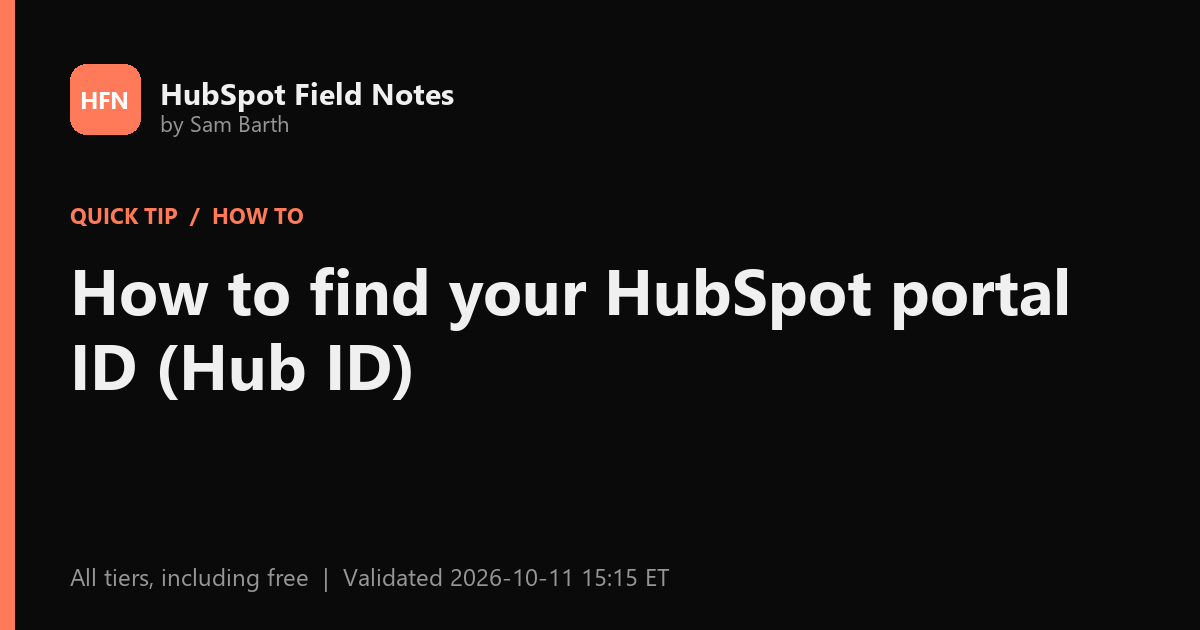
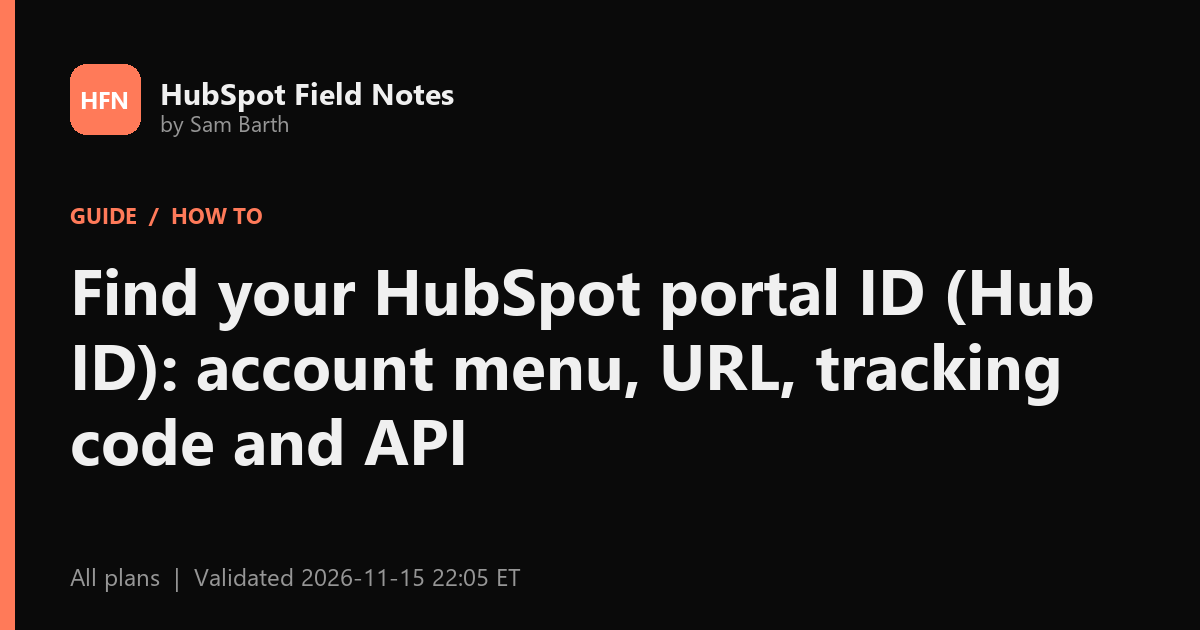
Topic guide: find your HubSpot portal ID (adds tracking code and tested API)

diff --git a/articles/find-hubspot-portal-id/index.html b/articles/find-hubspot-portal-id/index.html
@@ -13,16 +13,16 @@
 <script>try{var t=localStorage.getItem('hfn-theme');if(t)document.documentElement.setAttribute('data-theme',t)}catch(e){}</script>
 <script id="hs-script-loader" async defer src="https://js.hs-scripts.com/20693956.js"></script>
 <!--/head-->
-<title>How to find your HubSpot portal ID (Hub ID) - HubSpot Field Notes</title>
-<meta name="description" content="Your HubSpot portal ID, also called Hub ID or account ID, is in the account menu and in every HubSpot URL. Where to find it and what it is for.">
+<title>Find your HubSpot portal ID (Hub ID): account menu, URL, tracking code and API - HubSpot Field Notes</title>
+<meta name="description" content="Four places to find your HubSpot portal ID, also called the Hub ID or account ID: the account menu, any HubSpot URL, the tracking code script, and the account information API, with what the API returns.">
 <link rel="canonical" href="https://hubspot.samcbarth.com/articles/find-hubspot-portal-id/">
 <meta property="og:type" content="article">
 <meta property="og:url" content="https://hubspot.samcbarth.com/articles/find-hubspot-portal-id/">
-<meta property="og:title" content="How to find your HubSpot portal ID (Hub ID)">
-<meta property="og:description" content="Your HubSpot portal ID, also called Hub ID or account ID, is in the account menu and in every HubSpot URL. Where to find it and what it is for.">
+<meta property="og:title" content="Find your HubSpot portal ID (Hub ID): account menu, URL, tracking code and API">
+<meta property="og:description" content="Four places to find your HubSpot portal ID, also called the Hub ID or account ID: the account menu, any HubSpot URL, the tracking code script, and the account information API, with what the API returns.">
 <meta property="og:image" content="https://hubspot.samcbarth.com/articles/find-hubspot-portal-id/og.png">
 <meta property="article:published_time" content="2026-10-02">
-<meta property="article:modified_time" content="2026-10-02">
+<meta property="article:modified_time" content="2026-11-15">
 <meta name="twitter:card" content="summary_large_image">
 <script type="application/ld+json">
 {
@@ -30,10 +30,10 @@
   "@graph": [
     {
       "@type": "TechArticle",
-      "headline": "How to find your HubSpot portal ID (Hub ID)",
-      "description": "Your HubSpot portal ID, also called Hub ID or account ID, is in the account menu and in every HubSpot URL. Where to find it and what it is for.",
+      "headline": "Find your HubSpot portal ID (Hub ID): account menu, URL, tracking code and API",
+      "description": "Four places to find your HubSpot portal ID, also called the Hub ID or account ID: the account menu, any HubSpot URL, the tracking code script, and the account information API, with what the API returns.",
       "datePublished": "2026-10-02",
-      "dateModified": "2026-10-02",
+      "dateModified": "2026-11-15",
       "author": { "@type": "Person", "name": "Sam Barth", "url": "https://samcbarth.com" },
       "publisher": { "@type": "Person", "name": "Sam Barth" },
       "image": "https://hubspot.samcbarth.com/articles/find-hubspot-portal-id/og.png",
@@ -43,18 +43,21 @@
     },
     {
       "@type": "HowTo",
-      "name": "Find your HubSpot portal ID",
-      "totalTime": "PT1M",
+      "name": "Find your HubSpot portal ID (Hub ID): account menu, URL, tracking code and API",
+      "totalTime": "PT5M",
       "step": [
-        {"@type": "HowToStep", "name": "Open the account menu", "text": "In HubSpot, click your account name or avatar in the top right corner."},
-        {"@type": "HowToStep", "name": "Read the Hub ID", "text": "Under Account, the number below the account name is your portal ID, also called Hub ID."}
+        {"@type": "HowToStep", "name": "Open the account menu", "text": "Click your avatar, top right."},
+        {"@type": "HowToStep", "name": "Read the number under the account name", "text": "That is the portal ID."},
+        {"@type": "HowToStep", "name": "Or check the URL", "text": "It follows the tool name."},
+        {"@type": "HowToStep", "name": "Or check the tracking code", "text": "hs-scripts.com/ID.js."},
+        {"@type": "HowToStep", "name": "Or call the API", "text": "GET account-info details returns portalId."}
       ]
     },
     {
       "@type": "BreadcrumbList",
       "itemListElement": [
         { "@type": "ListItem", "position": 1, "name": "HubSpot Field Notes", "item": "https://hubspot.samcbarth.com/" },
-        { "@type": "ListItem", "position": 2, "name": "How to find your HubSpot portal ID (Hub ID)", "item": "https://hubspot.samcbarth.com/articles/find-hubspot-portal-id/" }
+        { "@type": "ListItem", "position": 2, "name": "Find your HubSpot portal ID (Hub ID): account menu, URL, tracking code and API", "item": "https://hubspot.samcbarth.com/articles/find-hubspot-portal-id/" }
       ]
     }
   ]
@@ -85,14 +88,14 @@
   <div class="wrap">
     <nav class="crumbs" aria-label="Breadcrumb"><a href="../../">All articles</a> / <a href="../../?feature=Settings">Settings</a></nav>
     <header class="article-head">
-      <div class="badges"><span class="badge badge-type">Quick tip</span><span class="badge badge-problem">How to</span><span class="badge">Smart CRM</span><span class="badge">Settings</span></div>
-      <h1>How to find your HubSpot portal ID (Hub ID)</h1>
-      <p class="dek">Support asks for it, SSO setup asks for it, and every integration guide assumes you know it. Your portal ID is in two places, and both take a few seconds.</p>
+      <div class="badges"><span class="badge badge-type">Guide</span><span class="badge badge-problem">How to</span><span class="badge">Smart CRM</span><span class="badge">Settings</span></div>
+      <h1>Find your HubSpot portal ID (Hub ID): account menu, URL, tracking code and API</h1>
+      <p class="dek">The portal ID is in the account menu, every HubSpot URL, your tracking code and the API. It identifies an account without granting access.</p>
       <dl class="facts">
-        <div class="fact"><dt>Subscription</dt><dd>All tiers, including free</dd></div>
-        <div class="fact"><dt>Permissions</dt><dd>Any user</dd></div>
-        <div class="fact"><dt>Time</dt><dd>1 min &middot; Beginner</dd></div>
-        <div class="fact"><dt>Validated</dt><dd><time datetime="2026-10-11T15:15:00-04:00">October 11, 2026, 3:15 PM ET</time></dd></div>
+        <div class="fact"><dt>Subscription</dt><dd>All plans</dd></div>
+        <div class="fact"><dt>Permissions</dt><dd>Any HubSpot user</dd></div>
+        <div class="fact"><dt>Time</dt><dd>5 min &middot; Intermediate</dd></div>
+        <div class="fact"><dt>Last verified</dt><dd><time datetime="2026-11-15">November 15, 2026</time></dd></div>
       </dl>
       <div data-portal-box></div>
     </header>
@@ -100,36 +103,78 @@
     <div class="article-layout">
       <aside class="toc" data-toc aria-label="On this page"></aside>
       <article class="prose">
-        <div class="tldr">
+<div class="tldr">
           <h2>Short answer</h2>
-          <p>Click your avatar in the top right of HubSpot. Under <span class="ui">Account</span>, the number below your account name is your portal ID. HubSpot also calls it the Hub ID or account ID. It is the same number you see in every HubSpot URL, right after the tool name.</p>
+          <p>Click your avatar in the top right of HubSpot. Under <strong>Account</strong>, the number below the account name is your portal ID, which HubSpot also calls the Hub ID or account ID. It is also in every HubSpot URL right after the tool name, in your tracking code file name, and in the API's account details. It identifies the account but does not grant access, so it is safe to share with support or a partner.</p>
         </div>
 
-        <h2>In the account menu</h2>
-        <p>Click your avatar or account name in the top right corner of HubSpot (1). The menu shows your user details first, then an <span class="ui">Account</span> section with the account name and, right under it, the portal ID (2).</p>
+        <h2>1. In the account menu</h2>
+        <p>Click your avatar or account name in the top right corner (1). The menu shows your user details first, then an <strong>Account</strong> section with the account name and, right under it, the portal ID (2).</p>
         <figure class="shot"><a href="account-menu.webp"><img src="account-menu.webp" alt="HubSpot account menu open with the Account section showing the account name and Hub ID highlighted" width="800" height="553" loading="lazy"></a><figcaption>Avatar (1), then the Account section (2). The ID, user email, and contacts are blurred here.</figcaption></figure>
-<div class="callout"><span class="callout-title">Example from my portal</span><p>In my portal the account name is a demo account, with the ID under it. Your account name will be different, but the ID sits in the same place. You may have something like this.</p></div>
-        <p>If you belong to several portals, the arrow next to the account name lets you switch, and each one shows its own ID.</p>
+        <p>If you belong to several accounts, the arrow next to the account name switches between them, and each shows its own ID. See <a href="../join-hubspot-beta-product-updates/">account settings</a> for managing several accounts.</p>
 
-        <h2>In any HubSpot URL</h2>
-        <p>Every page in HubSpot has the portal ID in its address, right after the name of the tool:</p>
-        <div class="code"><pre><code>https://app.hubspot.com/contacts/<strong>12345678</strong>/objects/0-1/views/all/list
-https://app-eu1.hubspot.com/workflows/<strong>12345678</strong>
-https://app-na2.hubspot.com/settings/<strong>12345678</strong>/users</code></pre></div>
-        <p>The start of the address changes with the data center your account is hosted in (<code>app</code>, <code>app-na2</code>, <code>app-eu1</code>), but the ID sits in the same place.</p>
+        <h2>2. In any HubSpot URL</h2>
+        <p>Every page in HubSpot has the portal ID in its address, right after the tool name:</p>
+<pre><code>https://app.hubspot.com/contacts/12345678/objects/0-1/views/all/list
+https://app-eu1.hubspot.com/workflows/12345678
+https://app-na2.hubspot.com/settings/12345678/users</code></pre>
+        <p>The start of the address changes with the data center your account is hosted in (<code>app</code>, <code>app-na2</code>, <code>app-eu1</code>), but the ID is in the same place. Paste any HubSpot URL or the ID into the <a href="../../link-builder.html">HubSpot link builder</a> to get direct links to workflows, properties, imports and settings in your account.</p>
 
-        <h2>What you need it for</h2>
+        <h2>3. In your tracking code</h2>
+        <p>The HubSpot tracking code loads a script named after your portal ID:</p>
+<pre><code>&lt;script id="hs-script-loader" async defer src="//js.hs-scripts.com/12345678.js"&gt;&lt;/script&gt;</code></pre>
+        <p>Accounts in other data centers use a matching host; my demo portal in na2 loads from <code>js-na2.hs-scripts.com</code>. If you need to know which account a website reports to, view the page source and read the number in that file name. See <a href="../install-tracking-code-wix/">installing the tracking code</a>.</p>
+
+        <h2>4. Through the API</h2>
+        <p>The account info endpoint returns the ID and the account's hosting details. I called both versions on November 15, 2026:</p>
+<pre><code>GET https://api.hubapi.com/account-info/2026-09/details
+
+{
+  "portalId": 12345678,
+  "accountType": "STANDARD",
+  "timeZone": "US/Eastern",
+  "uiDomain": "app-na2.hubspot.com",
+  "dataHostingLocation": "na2",
+  ...
+}</code></pre>
         <ul>
-          <li><strong>Support tickets and partners.</strong> It is the fastest way to tell someone exactly which account you mean, especially if your company has a production portal and a sandbox with the same name.</li>
-          <li><strong>Single sign-on.</strong> HubSpot's SSO setup asks for it in the identity provider's Portal Id field.</li>
-          <li><strong>Direct links.</strong> Paste the ID (or any HubSpot URL) into the <a href="../../link-builder.html">HubSpot link builder</a> to get links straight to workflows, properties, imports, and settings in your portal. Every article on this site has the same box at the top.</li>
+          <li>Both <code>/account-info/v3/details</code> and <code>/account-info/2026-09/details</code> answered with a 200.</li>
+          <li>The <code>2026-09</code> response also included <code>portalName</code> and <code>createdAt</code>, which the v3 response did not.</li>
+          <li><code>accountType</code> is <code>STANDARD</code>, <code>DEVELOPER_TEST</code>, <code>SANDBOX</code> or <code>APP_DEVELOPER</code> (a legacy developer account), so a script can tell a sandbox from production. My demo portal returned <code>DEVELOPER_TEST</code>.</li>
+          <li><code>uiDomain</code> and <code>dataHostingLocation</code> tell a script which data center the account is in.</li>
         </ul>
-        <div class="callout"><span class="callout-title">Is it a secret?</span><p>No. The portal ID shows up in your tracking code and page URLs. It identifies the account but does not grant access to it. Keys and private app tokens are what you keep private.</p></div>
+        <p>Any valid service key or app token works. See <a href="../private-apps-moved-to-legacy-apps/">service keys</a>.</p>
+
+        <h2>5. What you need it for</h2>
+        <ul>
+          <li><strong>Support tickets and partners.</strong> It is the fastest way to say exactly which account you mean, especially when a production account and a sandbox share a name.</li>
+          <li><strong>Single sign-on.</strong> HubSpot's SSO setup asks for it in the identity provider's Portal Id field.</li>
+          <li><strong>Developer tools.</strong> The HubSpot CLI and many integrations ask for it when you connect an account.</li>
+        </ul>
+        <p><strong>Is it a secret?</strong> No. It is in your tracking code and page URLs. It identifies the account but does not grant access. Keys and tokens are what you keep private.</p>
+
+        <h2>6. What is changing for 2027</h2>
+        <ul>
+          <li><strong>Data centers vary.</strong> Accounts are hosted in different locations such as na1, na2 and eu1, so scripts should read <code>uiDomain</code> from the account info API instead of assuming <code>app.hubspot.com</code>.</li>
+          <li><strong>Dated API versions.</strong> The <code>2026-09</code> account details return more fields than v3. Use the dated URL in new code. See <a href="../hubspot-api-rate-limits/">API versioning</a>.</li>
+        </ul>
+
+        <h2>Common questions</h2>
+        <h3>Is the Hub ID the same as the portal ID?</h3>
+        <p>Yes. HubSpot uses portal ID, Hub ID and account ID for the same number.</p>
+        <h3>How do I tell which HubSpot account a website uses?</h3>
+        <p>View the page source and find <code>hs-scripts.com/NUMBER.js</code>. The number is the portal ID.</p>
+        <h3>Can someone access my account with my portal ID?</h3>
+        <p>No. It identifies the account only. Access needs a login, a key or an app token.</p>
+        <h3>Why does my URL say app-na2 instead of app?</h3>
+        <p>Your account is hosted in a different data center. The portal ID is in the same position either way.</p>
 
         <h2>Sources</h2>
         <ul class="sources">
           <li><a href="https://knowledge.hubspot.com/account-management/manage-multiple-hubspot-accounts">HubSpot Knowledge Base: Manage multiple HubSpot accounts</a></li>
           <li><a href="https://knowledge.hubspot.com/account-security/set-up-single-sign-on-sso">HubSpot Knowledge Base: Set up single sign-on (SSO)</a></li>
+          <li><a href="https://developers.hubspot.com/docs/api-reference/legacy/account/account-information/guide">HubSpot developer docs: Account information API</a></li>
+          <li><a href="https://developers.hubspot.com/changelog/introducing-date-based-api-versioning">HubSpot developer changelog: Date-based API versioning</a></li>
         </ul>
 
         <div class="vote" data-vote></div>

diff --git a/index.html b/index.html
@@ -290,7 +290,7 @@
 <a class="card" href="articles/inbox-channels-and-fallback-email/"><div class="badges"><span class="badge badge-type">Quick tip</span><span class="badge badge-problem">How to</span><span class="badge">Service Hub</span><span class="badge">Sales Hub</span></div><h3>HubSpot inbox channels and the fallback email address</h3><p>The Inboxes settings page in HubSpot: connected channels such as chat and forms, a form channel that creates tickets, and the HubSpot fallback email address.</p><div class="card-meta"><span>5 min</span><span>Beginner</span><span>Verified 2026-10-03</span></div></a>
 <a class="card" href="articles/inbox-allow-and-deny-list/"><div class="badges"><span class="badge badge-type">Quick tip</span><span class="badge badge-problem">Fix it</span><span class="badge">Service Hub</span></div><h3>HubSpot inbox allow and deny list: control what gets marked as spam</h3><p>The Allow &amp; Deny List in HubSpot inbox and help desk settings: always allow or always mark as spam by email or domain, the automatic spam categories, and the rules that cannot be overridden.</p><div class="card-meta"><span>5 min</span><span>Beginner</span><span>Verified 2026-10-03</span></div></a>
 <a class="card" href="articles/workflow-wont-re-enroll/"><div class="badges"><span class="badge badge-type">Guide</span><span class="badge badge-problem">Fix it</span><span class="badge">Marketing Hub</span><span class="badge">Sales Hub</span></div><h3>Contact won&#39;t re-enroll in a HubSpot workflow? Check these 6 things</h3><p>HubSpot enrolls a record once by default. Why re-enrollment fails, how to turn it on, and the triggers that can never re-enroll.</p><div class="card-meta"><span>10 min</span><span>Intermediate</span><span>Validated 2026-10-11 15:01 ET</span></div></a>
-<a class="card" href="articles/find-hubspot-portal-id/"><div class="badges"><span class="badge badge-type">Quick tip</span><span class="badge badge-problem">How to</span><span class="badge">Smart CRM</span></div><h3>How to find your HubSpot portal ID (Hub ID)</h3><p>Your portal ID, also called Hub ID or account ID, is in the account menu and in every HubSpot URL.</p><div class="card-meta"><span>1 min</span><span>Beginner</span><span>Validated 2026-10-11 15:15 ET</span></div></a>
+<a class="card" href="articles/find-hubspot-portal-id/"><div class="badges"><span class="badge badge-type">Guide</span><span class="badge badge-problem">How to</span><span class="badge">Smart CRM</span></div><h3>Find your HubSpot portal ID (Hub ID): account menu, URL, tracking code and API</h3><p>Four places to find your HubSpot portal ID, also called the Hub ID or account ID: the account menu, any HubSpot URL, the tracking code script, and the account information API, with what the API returns.</p><div class="card-meta"><span>5 min</span><span>Beginner</span><span>Validated 2026-11-15 22:05 ET</span></div></a>
 <!--/cards-->
     </div>
 

diff --git a/articles.js b/articles.js
@@ -69,18 +69,18 @@ var ARTICLES = [
   },
   {
     slug: 'find-hubspot-portal-id',
-    title: 'How to find your HubSpot portal ID (Hub ID)',
-    excerpt: 'Your portal ID, also called Hub ID or account ID, is in the account menu and in every HubSpot URL.',
-    type: 'tip',
-    problem: 'How to',
+    title: "Find your HubSpot portal ID (Hub ID): account menu, URL, tracking code and API",
+    excerpt: "Four places to find your HubSpot portal ID, also called the Hub ID or account ID: the account menu, any HubSpot URL, the tracking code script, and the account information API, with what the API returns.",
+    type: "guide",
+    problem: "How to",
     hubs: ['Smart CRM'],
     features: ['Settings'],
-    tier: 'All tiers, including free',
-    permissions: 'Any user',
-    verified: '2026-10-02',
-    validated: '2026-10-11 15:15 ET',
+    tier: "All plans",
+    permissions: "Any HubSpot user",
+    verified: "2026-11-15",
+    validated: "2026-11-15 22:05 ET",
     published: '2026-10-02',
-    minutes: 1,
+    minutes: 5,
     difficulty: 'Beginner',
     keywords: ['portal id', 'hub id', 'account id', 'portalid', 'hubid', 'account number', 'url']
   },
